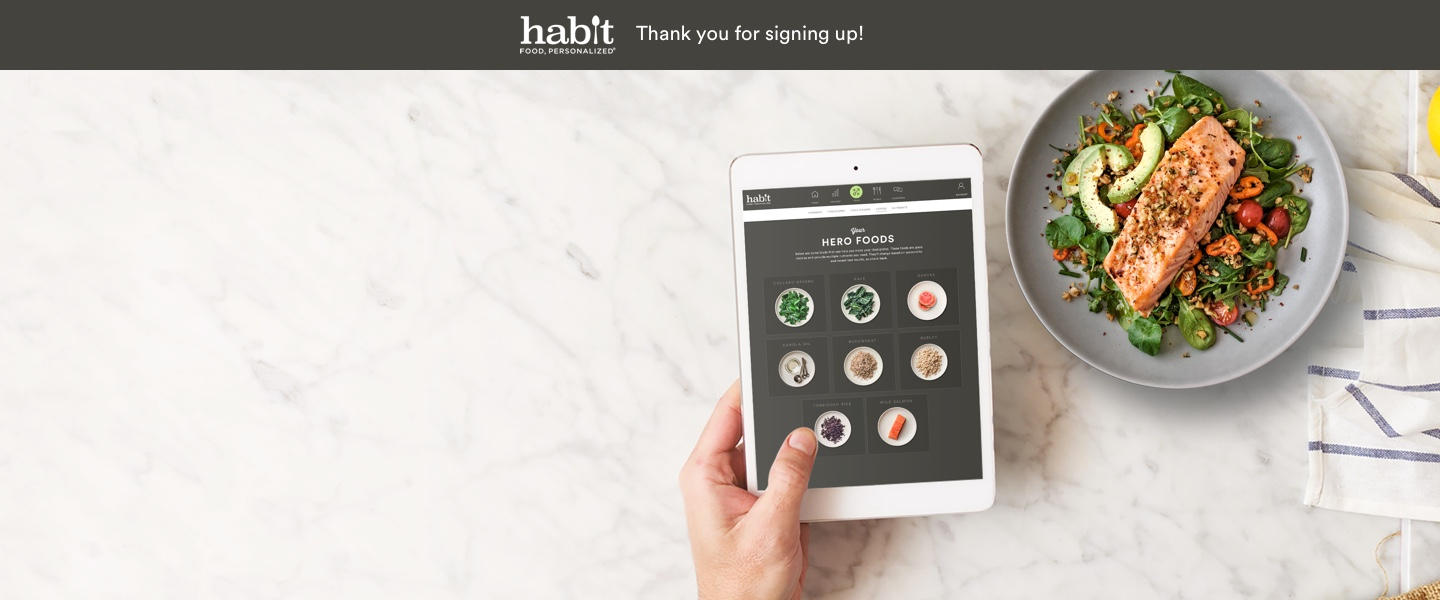
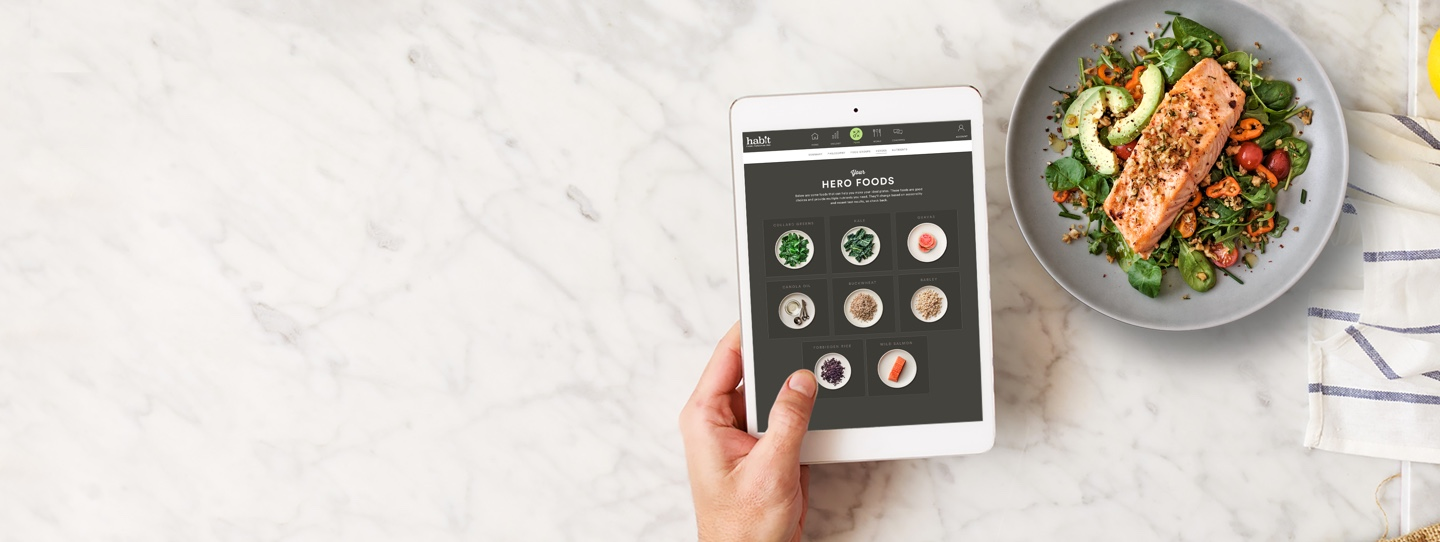
second FE commit

diff --git a/app/assets/stylesheets/_refer.scss b/app/assets/stylesheets/_refer.scss
@@ -2,16 +2,8 @@
   REFER-A-FRIEND PAGE
 \*------------------------------------*/
 
-.wf-loading .brandon{
-  visibility: hidden;
-}
-
-.brandon{
-  font-family: "Brandon Grotesque", "brandon-grotesque", "HelveticaNeue", "Helvetica", "Arial", sans-serif;
-}
-
 #refer{
-  background: #FFF;
+  background: $white;
   .page-content {
     width: 1120px;
     margin: 0 auto;
@@ -19,130 +11,137 @@
     position: relative;
   }
   .header {
-    height: 50px;
+    height: 70px;
     background: $gray;
     width: 100%;
     overflow:hidden;
     z-index: 1;
     position: relative;
+    text-align: center;
     .content {
-      width: 315px;
+      display: inline-block;
+      height: 100%;
       margin: 0 auto;
-    }
-    p {
-      float: left;
-      color: #FFF;
-      font-weight: 500;
-      text-transform: uppercase;
-      line-height: 50px;
-    }
-    .byline {
-      font-size: 14px;
-    }
-    .logo{
-      font-weight: normal;
-      font-size: 0;
-      line-height: 0;
-      margin-right: 14px;
-      letter-spacing: 1px;
-      background: image-url("refer/logo.png") 0 0 no-repeat;
-      background-size: 106px 19px;
-      height: 19px;
-      width: 106px;
-      margin-top: 15px;
+      .habit-logo {
+        background: image-url("habit-logo.png") 0 0 no-repeat;
+        background-size: contain;
+        width: 96px;
+        height: 40px;
+        margin-right: 20px;
+      }
+      p {
+        float: left;
+        color: $white;
+        font-weight: 500;
+        text-transform: uppercase;
+        line-height: 50px;
+        font-size: 14px;
+      }
+      .header-content {
+        @include flex-vert;
+        height: 100%;
+        float: left;
+      }
     }
   }
   .hero{
-    background: #F1F0EE;
-    height: 391px;
+    @include flex-vert;
+    // background: #F1F0EE;
+    height: 600px;
     overflow: hidden;
-  }
-  .mammoth{
-    width: 612px;
-    height: 394px;
-    background: image-url("refer/mammoth.png") 0 0 no-repeat;
-    background-size: 610px 394px;
-    overflow: hidden;
-    margin-top: 15px;
-    float: left;
-    .need{
-      color: #FFF;
-      font-size: 38px;
-      text-transform: uppercase;
-      font-weight: bold;
-      margin: 102px 0 0 72px;
-      display: block;
-      line-height: 56px;
-      letter-spacing: 4px;
-      text-align: center;
-      width: 284px;
-    }
-  }
-  .share-wrap{
-    float: right;
-    width: 400px;
-    text-align: center;
-    text-transform: uppercase;
-    letter-spacing: .13em;
-    margin-right: 60px;
-    .why{
-      font-size: 16px;
-      color: #555556;
-      font-weight: bold;
-      margin-top: 42px;
-    }
-    .title{
-      font-size: 30px;
-      line-height: 40px;
-      text-transform: uppercase;
-      font-weight: bold;
-      color: #074E6F;
-      margin-top: 18px;
-      letter-spacing: .13em;
-    }
-    .subtitle{
-      color: #565656;
-      font-size: 14px;
-      text-transform: none;
-      margin-top: 15px;
-    }
-    .copy-link{
-      border: 1px solid #D1D0C7;
-      background: #FFF;
-      padding: 10px 0;
-      width: 320px;
-      text-transform: none;
-      font-size: 11px;
-      margin: 20px auto 0;
-    }
-    .social-links{
-      width: 120px;
-      height: 37px;
-      margin: 25px auto 0;
-      text-align: center;
-      a, div {
-        display: inline-block;
+    background: image-url("refer/header-bg-desktop.jpg") 0 0 no-repeat;
+    background-size: cover;
+    .hero-headline-wrapper {
+      // border: 1px solid red;
+      width: 407px;
+      height: 407px;
+      h1 {
+        // display: block;
+        color: $gray;
+        font-size: 42px;
+        // text-transform: uppercase;
+        // font-weight: bold;
+        // margin: 102px 0 0 72px;
+        // display: block;
+        // line-height: 56px;
+        // letter-spacing: 4px;
+        // text-align: center;
+        // width: 284px;
+        &::after {
+          display: block;
+          position: relative;
+          content: '';
+          height: 4px;
+          width: 90px;
+          background-color: $gray;
+          // margin: 0;
+
+        }
       }
-      .fb{
-        background: image-url("refer/fb.png");
-        background-size: 27px 27px;
-        width: 27px;
-        height: 27px;
-      }
-      .twit{
-        background: image-url("refer/twit.png");
-        background-size: 27px 27px;
-        width: 27px;
-        height: 27px;
-      }
-      .sep{
-        height: 28px;
-        width: 1px;
-        background: #BAB9BA;
-        margin: 0 20px;
+      .share-wrapper {
+        // float: right;
+        // width: 400px;
+        // text-align: center;
+        // text-transform: uppercase;
+        // letter-spacing: .13em;
+        // margin-right: 60px;
+        p {
+          color: $gray;
+          font-size: 14px;
+          text-transform: none;
+          margin-top: 15px;
+        }
+        .copy-link {
+          background: $gray-lighter;
+          border: 1px solid $gray-medium;
+          width: 340px;
+          height: 40px;
+          line-height: 40px;
+          span {
+            color: $gray-lightest;
+            font-size: 20px;
+            margin-left: 10px;
+          }
+        }
+        .social-links{
+          // width: 120px;
+          // height: 37px;
+          // margin: 25px auto 0;
+          // text-align: center;
+          a, div {
+            display: inline-block;
+          }
+          .fb {
+            background: image-url("refer/fb.png");
+            background-size: 27px 27px;
+            width: 27px;
+            height: 27px;
+          }
+          .twit {
+            background: image-url("refer/twit.png");
+            background-size: 27px 27px;
+            width: 27px;
+            height: 27px;
+          }
+          .sep {
+            height: 30px;
+            width: 2px;
+            background: $gray-medium;
+            // margin: 0 20px;
+          }
+        }
       }
     }
   }
+  // .mammoth{
+  //   width: 612px;
+  //   height: 394px;
+  //   background: image-url("refer/mammoth.png") 0 0 no-repeat;
+  //   background-size: 610px 394px;
+  //   overflow: hidden;
+  //   margin-top: 15px;
+  //   float: left;
+  // }
   .prizes{
     width: 100%;
     background: #FFF;

diff --git a/app/assets/stylesheets/_variables.scss b/app/assets/stylesheets/_variables.scss
@@ -5,18 +5,29 @@
 /*------------------------------------*\
   COLORS
 \*------------------------------------*/
-$gray:            #44433D;
-
 $white:           #FFFFFF;
 $black:           #000000;
-$brown-gray:      #4A4A4A;
+$gray:            #44433D;
 $gray-lightest:   #CBCACA;
 $gray-lighter:    #F6F6F5;
-$gray-light:      #8B8581;
-$gray-semi-dark:  #3D3B36;
-$gray-dark:       #6E6762;
-$green:           #BCE183;
-$input-blur:      #C5C5C6;
+$gray-medium:     #979797;
+
+
+// $brown-gray:      #4A4A4A;
+//
+// $gray-light:      #8B8581;
+// $gray-semi-dark:  #3D3B36;
+// $gray-dark:       #6E6762;
+// $green:           #BCE183;
+// $input-blur:      #C5C5C6;
+
+/*------------------------------------*\
+  FONTS
+\*------------------------------------*/
+$book-font:   "CircularPro-Book", sans-serif;
+$bold-font:   "CircularPro-Bold", sans-serif;
+$medium-font: "CircularPro-Medium", sans-serif;
+$italic-font: "CircularPro-Italic", sans-serif;
 
 /*------------------------------------*\
   NAVBAR HEIGHTS

diff --git a/app/assets/stylesheets/_core.scss b/app/assets/stylesheets/_core.scss
@@ -12,6 +12,14 @@ form{
     clear: both;
 }
 
+.wf-loading .brandon{
+  visibility: hidden;
+}
+
+.brandon{
+  font-family: "Brandon Grotesque", "brandon-grotesque", "HelveticaNeue", "Helvetica", "Arial", sans-serif;
+}
+
 
 /* Home */
 

diff --git a/app/assets/stylesheets/_mixins.scss b/app/assets/stylesheets/_mixins.scss
@@ -1,0 +1,9 @@
+/*------------------------------------*\
+  MIXINS
+\*------------------------------------*/
+
+// Flexbox Vertical Align
+@mixin flex-vert {
+  display: flex;
+  align-items: center;
+}

diff --git a/app/assets/stylesheets/application.scss b/app/assets/stylesheets/application.scss
@@ -2,6 +2,7 @@
 @import "bootstrap";
 @import "fonts";
 @import "variables";
+@import "mixins";
 @import "core";
 @import "users";
 @import "refer";
